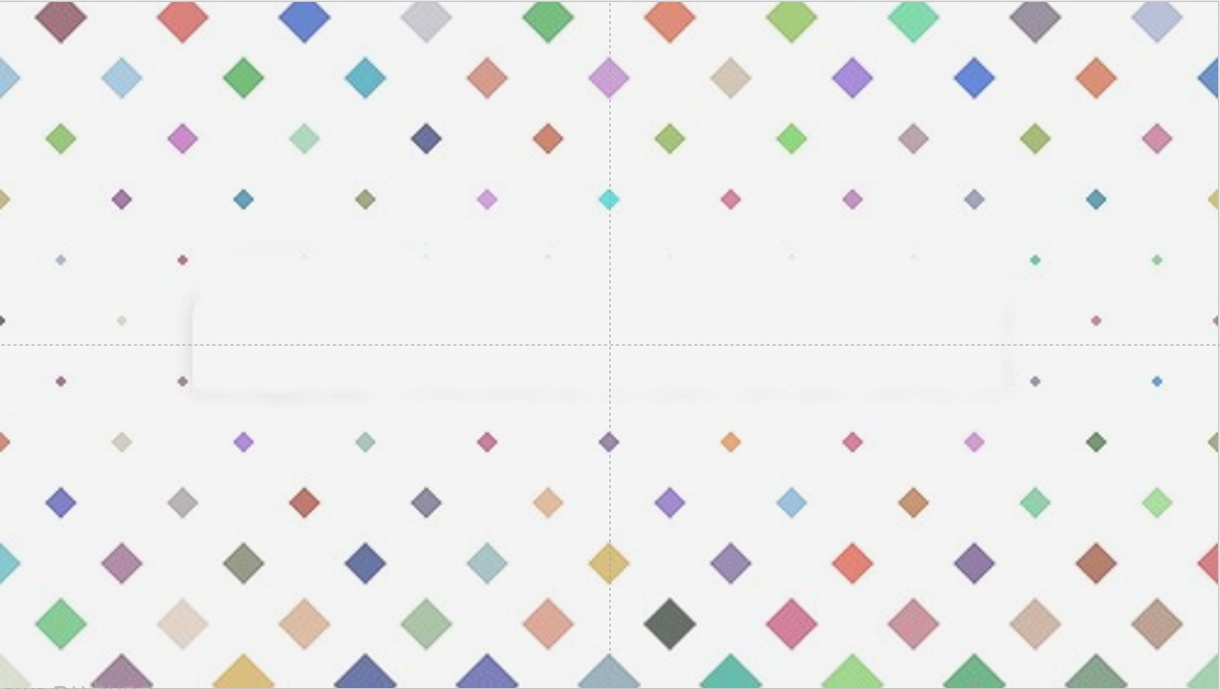
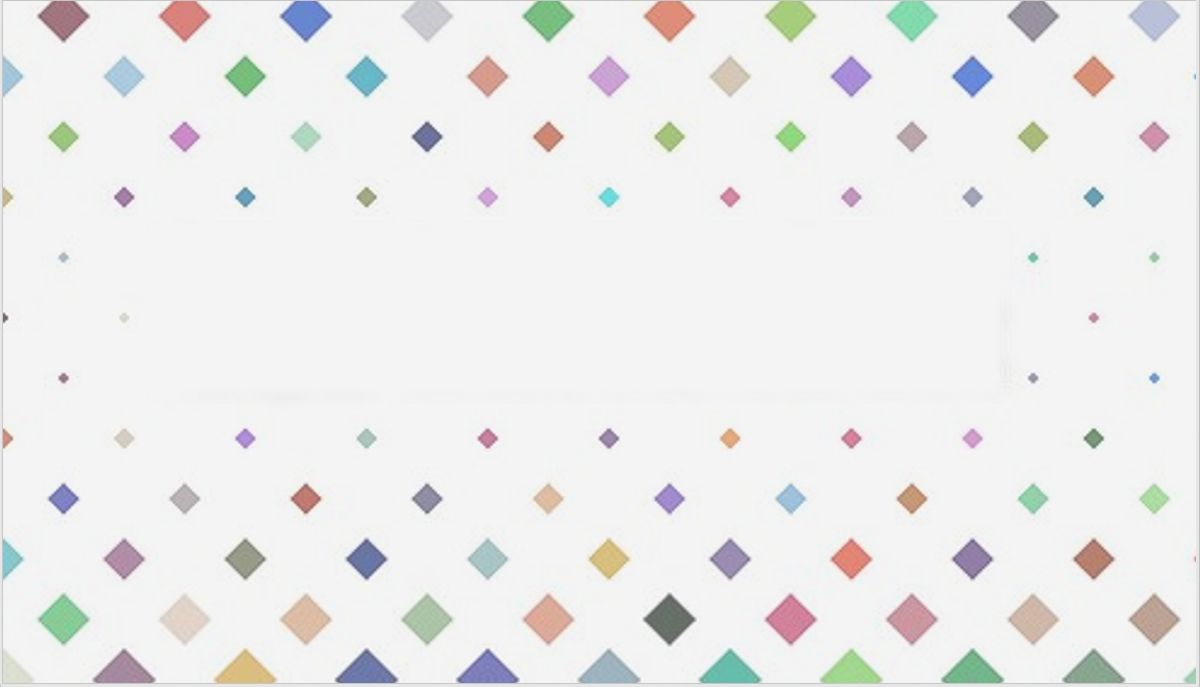
c

diff --git a/game.js b/game.js
@@ -1,0 +1,58 @@
+const my_card = [
+    {name: 'aa' , id : 1},
+    {name: 'bb' , id : 2},
+    {name: 'cc' , id : 3},
+    {name: 'aa' , id : 1},
+    {name: 'bb' , id : 2},
+    {name: 'cc' , id : 3},
+    ];
+
+let tor = 0
+let tor1 = ""
+
+init_game()
+
+function init_game(){
+    shake()
+    shake()
+    shake()
+
+}
+
+function shake(){
+    let shake_card = my_card.sort(function () {
+        return Math.random() - 0.5;
+    });
+}
+
+function opp(x){
+    if (x == tor1){
+        return
+    }
+    else{
+        document.getElementById(`img${x}`).src = `card/${my_card[x].name}.jpg`
+        tor++
+        if (tor == 2){
+            if( Similar(x , tor1) == true){
+                hidden()
+                tor = 0
+                tor1 = x
+            }
+            else{
+                back()
+            }
+        } 
+    }
+}
+
+function Similar(x , y){
+    if (my_card[x].id == my_card[y].id){
+        setTimeout(
+            ()=> {
+                document.getElementById
+            },
+            1000
+        );
+    }
+}
+

diff --git a/game.html b/game.html
@@ -6,6 +6,23 @@
     <link rel="stylesheet" href="game.css">
 </head>
 <body>
+<table class="table0" id="table" align="center">
+    <tr>
+        <td id="td0"><img src="card/back.png" id="img0" onclick="opp('0')"> </td>
+        <td id="td1"><img src="card/back.png" id="img1" onclick="opp(1)"> </td>
+        <td id="td2"><img src="card/back.png" id="img2" onclick="opp(2)"></td>
+    </tr>
+    <tr>
+        <td id="td3"><img src="card/back.png" id="img3" onclick="opp(3)"></td>
+        <td id="td4"><img src="card/back.png" id="img4" onclick="opp(4)"></td>
+        <td id="td5"><img src="card/back.png" id="img5" onclick="opp(5)"></td>   
+    </tr>
+
+
+</table>
+
+
+<script src="game.js"></script>
     
 </body>
 </html>

diff --git a/game.css b/game.css
@@ -1,5 +1,9 @@
 body{
-    background-image: url(reka.jpg);
+    background-image: url(card/reka.png);
     background-repeat: no-repeat;
-    background-size:cover;
+    background-size: 100% ;  
   }
+
+.table0{
+margin-top: 10%;
+}
